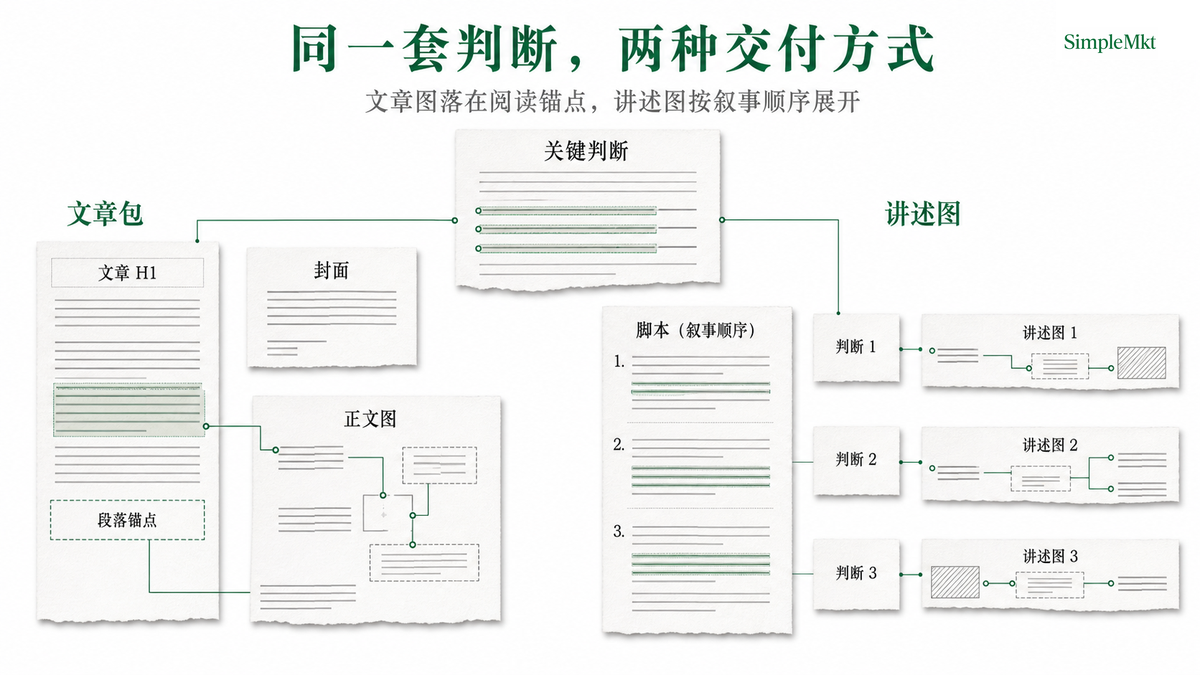
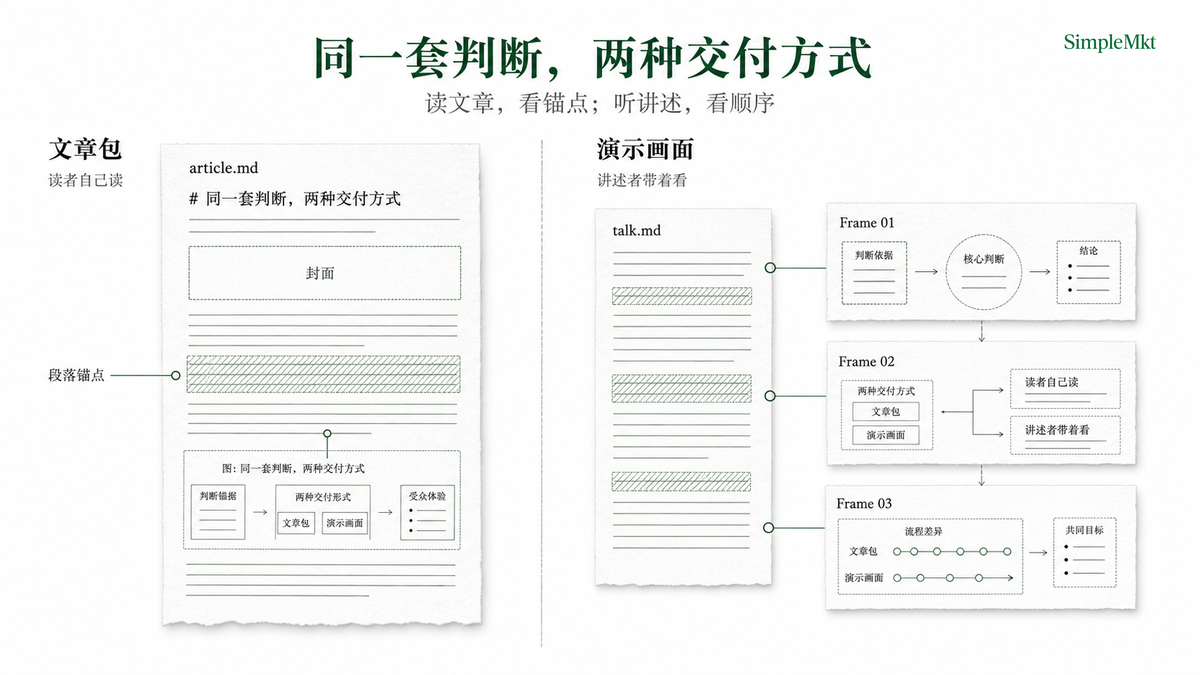
docs: clarify delivery modes

diff --git a/README.md b/README.md
@@ -4,7 +4,7 @@
 
 [中文](README.zh-CN.md)
 
-Turn a structured narrative—an article, talk, report, proposal, or workshop outline—into coherent explanatory images. It decides what needs to be shown, selects the right visual grammar, and delivers a traceable image package in the SimpleMkt editorial style.
+Turn a structured narrative—an article, talk, report, proposal, or workshop outline—into either an **article package** or a sequence of **presentation frames**. It decides what needs to be shown, selects the right visual grammar, and delivers a traceable image package in the SimpleMkt editorial style.
 
 ![smkt-article-visual opening banner](examples/readme-visuals/hero-banner.png)
 
@@ -34,7 +34,9 @@ git clone --depth 1 https://github.com/Lone3m-tech/smkt-article-visual.git \
 
 Remove `--global` for a project installation. For Claude Code, replace `--agent codex` with `--agent claude-code` and use `~/.claude/skills/smkt-article-visual` as the clone destination.
 
-## Three working modes
+## Shared workflow
+
+Every delivery follows these three stages. They are workflow stages, not the two output choices below.
 
 | Mode | What the Skill does | What it does not do yet |
 | --- | --- | --- |
@@ -44,19 +46,32 @@ Remove `--global` for a project installation. For Claude Code, replace `--agent 
 
 The normal sequence is `plan → generate → qa`. A direct-generation request may skip plan acceptance, but it still creates a plan before producing assets.
 
+## Choose your delivery
+
+Use `article_package` when readers will follow the content independently. Use `presentation_frames` when a presenter leads the audience through the same judgments in sequence.
+
+| Question | `article_package` | `presentation_frames` |
+| --- | --- | --- |
+| How the audience receives it | Reads an article or report, with a figure at the relevant passage. | Follows a speaker, proposal, workshop, or lesson in narrative order. |
+| Image unit | One cover, then explanatory body figures. | Frame 01, Frame 02, Frame 03 … each carrying one accepted judgment. |
+| Delivery is complete when | The cover and figures resolve once at their exact reading anchors in the Markdown source. | Every approved frame resolves once in the agreed sequence; the source prose remains untouched. |
+| Best input | Finished Markdown article or report. | Speech script, proposal outline, workshop, or teaching script. |
+
+![Article package and presentation-frame delivery modes](examples/readme-visuals/delivery-modes.png)
+
 ## From text to a visual people can follow
 
 An attractive image is not enough when the audience needs to understand a process, comparison, hierarchy, boundary, or key judgment. The Skill starts from the narrative: it identifies the point that needs explaining, chooses a grammar, generates the image, and records the prompt, revisions, and QA in one manifest.
 
 ## Where it helps
 
-| Scenario | Input | What it delivers |
-| --- | --- | --- |
-| Article or report | A finished Markdown article or research report | A cover and explanatory figures placed at their exact reading anchors. |
-| Talk or keynote | A speech script or presentation outline | One standalone explanation frame for each key judgment worth showing. |
-| Consulting proposal | A strategy narrative or proposal | Clear frames that make a mechanism, option, or recommendation easier to present. |
-| Internal alignment | A strategy memo or retrospective | Shared pictures of decisions, boundaries, systems, and handoffs. |
-| Workshop or course | A teaching outline or lesson script | Memorable teaching visuals that turn abstract concepts into a visible relationship. |
+| Scenario | Input | Delivery | What it delivers |
+| --- | --- | --- | --- |
+| Article or report | A finished Markdown article or research report | `article_package` | A cover and explanatory figures placed at their exact reading anchors. |
+| Talk or keynote | A speech script or presentation outline | `presentation_frames` | One standalone explanation frame for each key judgment worth showing. |
+| Consulting proposal | A strategy narrative or proposal | `presentation_frames` | Clear frames that make a mechanism, option, or recommendation easier to present. |
+| Internal alignment | A strategy memo or retrospective | Either, based on whether people read or are led through it | Shared pictures of decisions, boundaries, systems, and handoffs. |
+| Workshop or course | A teaching outline or lesson script | `presentation_frames` | Memorable teaching visuals that turn abstract concepts into a visible relationship. |
 
 ![Five narrative use cases](examples/readme-visuals/usage-scenarios.png)
 
@@ -103,25 +118,6 @@ For articles, each figure is placed after its corresponding paragraph. For talks
 
 ![Traceable illustration delivery](examples/demo-article/assets/image/traceable-delivery.png)
 
-## Output modes
-
-| Mode | Best for | What you get |
-| --- | --- | --- |
-| `article_package` | Articles and reports | `cover.png`, explanatory body figures, Markdown placement, and one manifest. |
-| `presentation_frames` | Talks, proposals, workshops, and teaching scripts | One ordered standalone frame per accepted key judgment, plus one manifest. The source prose remains unchanged. |
-
-```text
-source.md
-assets/image/
-├── cover.png                       # article_package only
-├── <figure-or-frame-id>.png
-└── manifest.json
-```
-
-`manifest.json` appends every generation attempt; `accepted_attempt` identifies the current accepted version. The Skill never rewrites source prose.
-
-![Article package and presentation-frame delivery modes](examples/readme-visuals/delivery-modes.png)
-
 ## Visual grammar library
 
 Choose one primary grammar for each figure. Start with the relationship an audience needs to understand, then select the structure; a shared visual style must not flatten different questions into one layout.
@@ -144,7 +140,7 @@ Choose one primary grammar for each figure. Start with the relationship an audie
 
 ## Complete demo
 
-The demo article, “Open-source illustration Skill: images are part of the explanation,” includes one cover and six explanatory body figures.
+The bundled demo shows `article_package`: “Open-source illustration Skill: images are part of the explanation,” with one cover and six explanatory body figures.
 
 [Open the demo article](examples/demo-article/article.md)
 

diff --git a/README.zh-CN.md b/README.zh-CN.md
@@ -4,7 +4,7 @@
 
 [English](README.md)
 
-把文章、演讲稿、报告、提案或工作坊提纲这类结构化叙事，变成一组统一、可解释的图片。它判断什么值得画，选择合适图法，并以 SimpleMkt 编辑图风格交付可追溯的图片包。
+把文章、演讲稿、报告、提案或工作坊提纲这类结构化叙事，变成**文章包**或一组连续的**演示画面**。它判断什么值得画，选择合适图法，并以 SimpleMkt 编辑图风格交付可追溯的图片包。
 
 ![smkt-article-visual 开场 Banner](examples/readme-visuals/hero-banner.png)
 
@@ -34,7 +34,9 @@ git clone --depth 1 https://github.com/Lone3m-tech/smkt-article-visual.git \
 
 项目内安装时去掉 `--global`；安装到 Claude Code 时把 `--agent codex` 改为 `--agent claude-code`，并将克隆目录改为 `~/.claude/skills/smkt-article-visual`。
 
-## 三种工作模式
+## 共同工作流程
+
+无论选择哪种交付方式，都会经过这三个阶段；它们是工作流程，不是下方两种交付方式。
 
 | 模式 | Skill 会做什么 | 此时不会做什么 |
 | --- | --- | --- |
@@ -44,19 +46,32 @@ git clone --depth 1 https://github.com/Lone3m-tech/smkt-article-visual.git \
 
 正常顺序是 `plan → generate → qa`。如果用户明确要求直接生成，可以跳过方案确认，但仍会先形成一份配图判断再开始出图。
 
+## 选择交付方式
+
+读者会自行阅读内容时，选择 `article_package`；由你在现场、会议或课堂中带着听众讲述时，选择 `presentation_frames`。
+
+| 判断问题 | `article_package` | `presentation_frames` |
+| --- | --- | --- |
+| 受众如何接收内容 | 边读文章或报告，边在对应段落查看图片。 | 跟随演讲、提案、工作坊或课程的叙事顺序观看。 |
+| 图片单位 | 一张封面，再加多张正文解释图。 | Frame 01、Frame 02、Frame 03……每张承载一个已确认判断。 |
+| 何时算交付完成 | 封面与正文图各自在 Markdown 的准确阅读锚点出现且只出现一次。 | 每张已确认画面按既定顺序存在一次；源文件正文不被修改。 |
+| 最适合的输入 | 完成的 Markdown 文章或报告。 | 演讲稿、提案提纲、工作坊或教学脚本。 |
+
+![文章包与演示画面的两种交付方式](examples/readme-visuals/delivery-modes.png)
+
 ## 从文字判断到看得懂的图
 
 当读者或听众需要理解一个流程、比较、层级、边界或关键判断时，一张好看的图还不够。Skill 从叙事本身出发：找出需要被解释的点，选择图法，生成图片，并把 Prompt、调整记录与 QA 收在同一份 manifest 中。
 
 ## 用在哪些场景
 
-| 场景 | 输入 | 它会交付什么 |
-| --- | --- | --- |
-| 文章或报告 | 完成的 Markdown 文章或研究报告 | 在准确阅读锚点落位的封面与正文解释图。 |
-| 演讲或分享 | 演讲稿或分享提纲 | 每个值得展示的关键判断，对应一张独立讲述图。 |
-| 咨询提案 | 策略叙事或提案 | 让机制、选项或建议更容易被讲清楚的解释页。 |
-| 内部对齐 | 战略 memo 或项目复盘 | 共同理解决策、边界、系统与交接关系的图。 |
-| 工作坊或课程 | 教学提纲或课程脚本 | 把抽象概念变成可讲、可记的教学图。 |
+| 场景 | 输入 | 交付方式 | 它会交付什么 |
+| --- | --- | --- | --- |
+| 文章或报告 | 完成的 Markdown 文章或研究报告 | `article_package` | 在准确阅读锚点落位的封面与正文解释图。 |
+| 演讲或分享 | 演讲稿或分享提纲 | `presentation_frames` | 每个值得展示的关键判断，对应一张独立讲述图。 |
+| 咨询提案 | 策略叙事或提案 | `presentation_frames` | 让机制、选项或建议更容易被讲清楚的解释页。 |
+| 内部对齐 | 战略 memo 或项目复盘 | 取决于大家自行阅读，还是由人带着讲述 | 共同理解决策、边界、系统与交接关系的图。 |
+| 工作坊或课程 | 教学提纲或课程脚本 | `presentation_frames` | 把抽象概念变成可讲、可记的教学图。 |
 
 ![SMKT Article Visual 的五类使用场景](examples/readme-visuals/usage-scenarios.png)
 
@@ -103,25 +118,6 @@ git clone --depth 1 https://github.com/Lone3m-tech/smkt-article-visual.git \
 
 ![可追溯的配图交付](examples/demo-article/assets/image/traceable-delivery.png)
 
-## 交付模式
-
-| 模式 | 最适合 | 你会得到什么 |
-| --- | --- | --- |
-| `article_package` | 文章与报告 | `cover.png`、正文解释图、文章内落位与一份 manifest。 |
-| `presentation_frames` | 演讲、提案、工作坊与教学脚本 | 每个已确认关键判断对应一张按叙事顺序命名的独立讲述图，加一份 manifest；不改写源文件。 |
-
-```text
-source.md
-assets/image/
-├── cover.png                       # 仅 article_package
-├── <figure-or-frame-id>.png
-└── manifest.json
-```
-
-`manifest.json` 为每张图追加生成尝试；`accepted_attempt` 指向当前采用版本。Skill 不改写源文件正文。
-
-![文章包与讲述图的两种交付方式](examples/readme-visuals/delivery-modes.png)
-
 ## 图法库
 
 一张图只选一个主图法：先看读者或听众需要理解哪一种关系，再选结构，不让统一风格把不同问题画成同一种版式。
@@ -144,7 +140,7 @@ assets/image/
 
 ## 完整 Demo
 
-Demo 使用《开源配图Skill：配图不是装饰，而是解释的一部分》这篇文章，包含一张封面与六张正文解释图。
+包内 Demo 展示的是 `article_package`：使用《开源配图Skill：配图不是装饰，而是解释的一部分》这篇文章，包含一张封面与六张正文解释图。
 
 [打开 Demo 文章](examples/demo-article/article.md)
 
